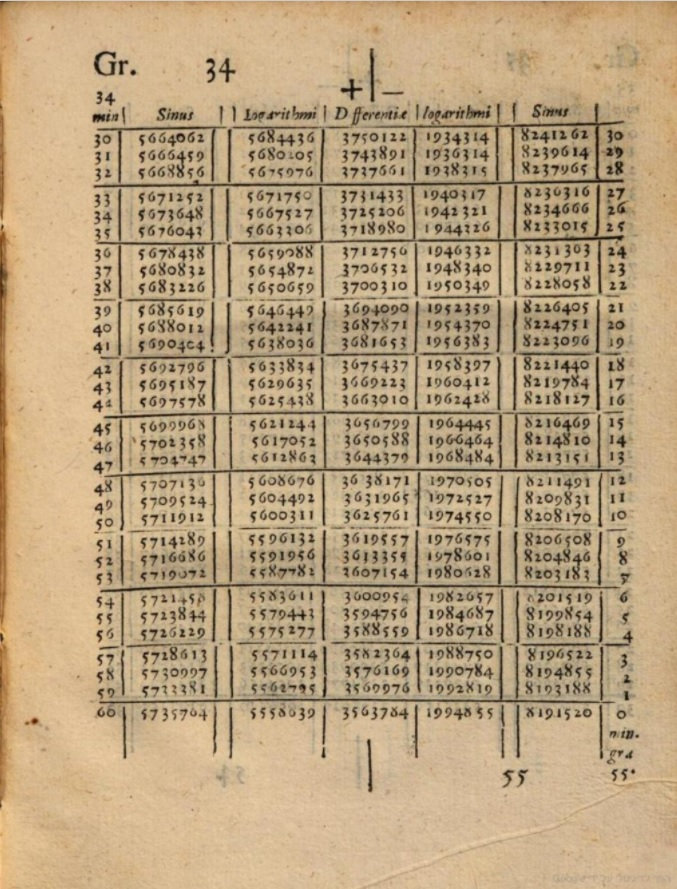
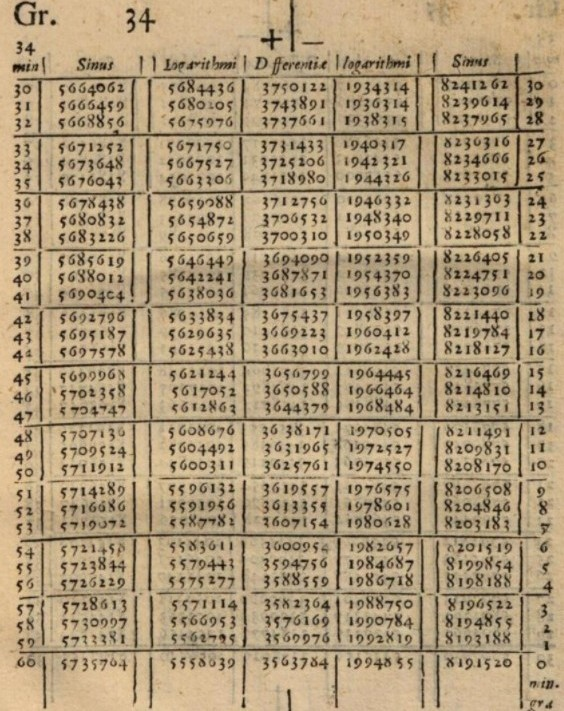
ok

diff --git a/slides/1015scg/lecture-05.html b/slides/1015scg/lecture-05.html
@@ -670,14 +670,8 @@
 							</p>
 
 						</div>
-						<div class="left-txt">
-
-
-							<p class="fragment" data-fragment-index="2">
-								Then we find these values using the logarithmic tables.
-							</p>
-
-						</div>
+						
+						
 
 
 
@@ -686,13 +680,16 @@
 					
 
 					<br />
+					<br />
+					<br />
+					<br />
 				</section>
 				<section data-auto-animate>
 					<h4>Why do we need logarithms anyway?</h4>
 
 
 
-					<div class="size-50">
+					<div class="size-45" style="margin-top: -20px;">
 
 						<div>
 
@@ -711,10 +708,10 @@
 					</div>
 
 
-					<table style="width: 100%;margin-top: -30px;">
+					<table style="width: 95%;margin-top: -40px;">
 						<tr>
 							<td style="width: 40%; text-align: center;">
-								<div class="size-85">
+								<div class="size-80">
 
 
 									<p>
@@ -722,7 +719,7 @@
 									</p>
 
 								</div>
-								<div class="size-85">
+								<div class="size-90">
 									<div>
 										<p>
 											👉 $\;x\approx 37.84$
@@ -735,7 +732,7 @@
 								<br />
 							</td>
 							<td style="width: 60%;text-align: center;">
-								<img style="width: 60%;" src="images/lec-05/A_page_from_Mirifici_logarithmorum_canonis_descriptio.jpg">
+								<img style="width: 70%;" src="images/lec-05/A_page_from_Mirifici_logarithmorum_canonis_descriptio.jpg">
 							</td>
 						</tr>
 					</table>
